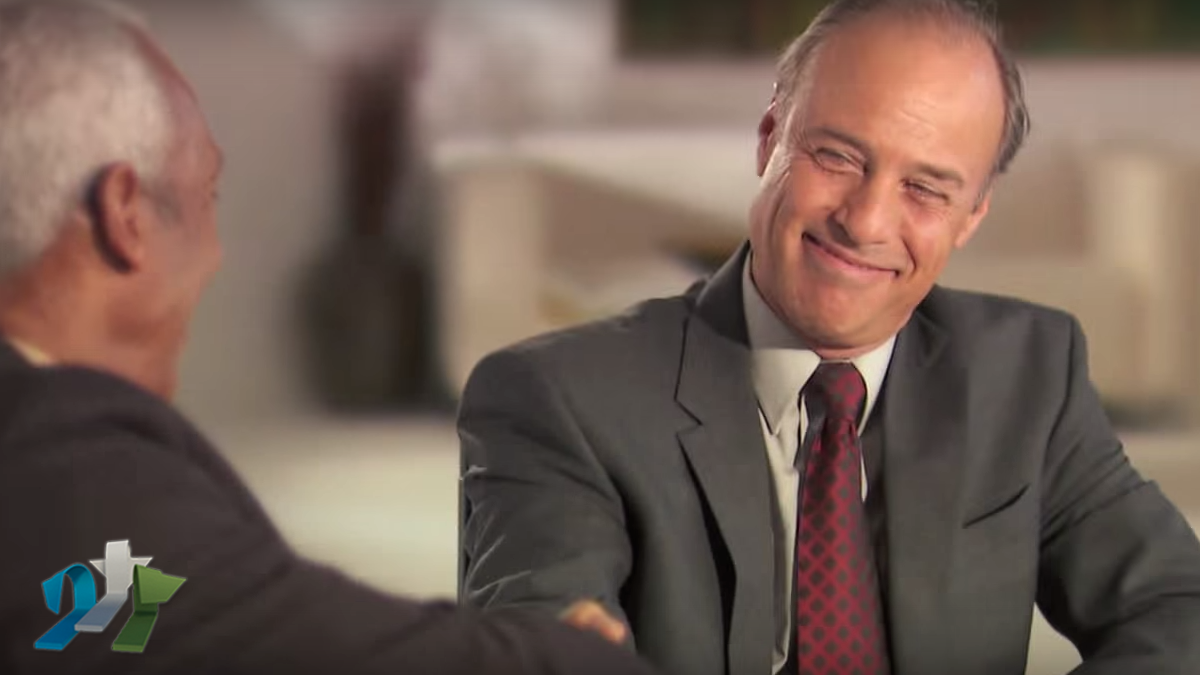
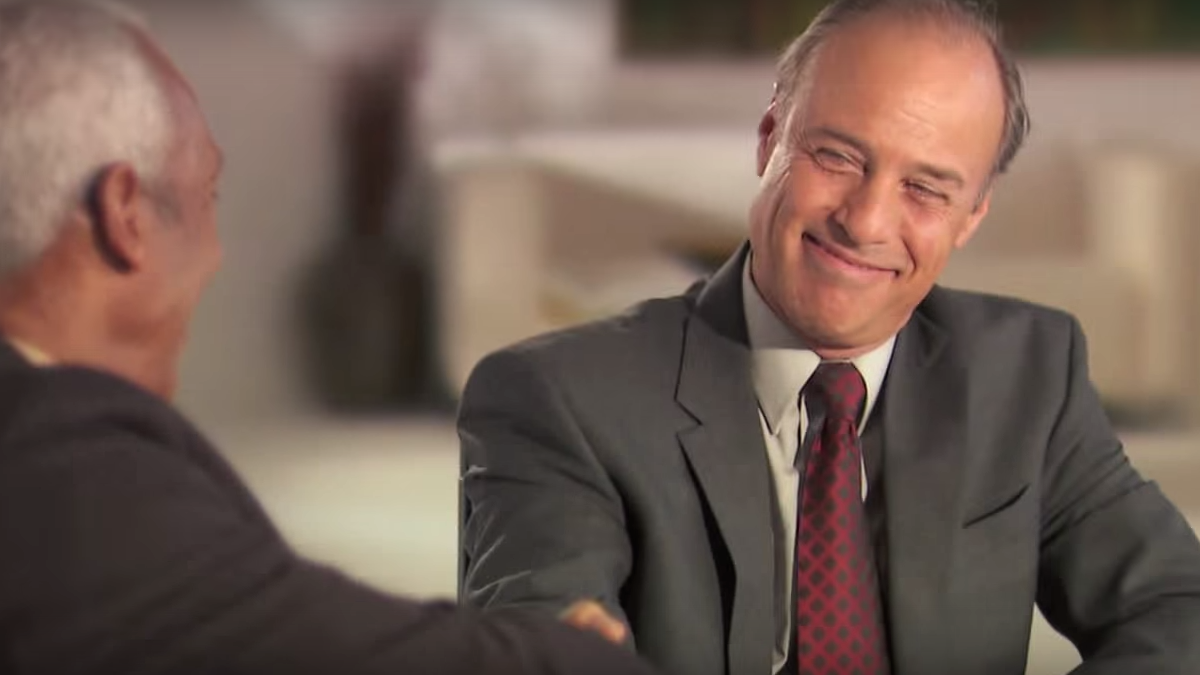
footer update

Changed region(s): [[0.0308, 0.7778, 0.1542, 0.9644]]

diff --git a/eap-meme/js/console-image.js b/eap-meme/js/console-image.js
@@ -99,6 +99,11 @@
 
 		var img = new Image();
     		img.setAttribute('crossOrigin','anonymous');
+		var imageIcon= new Image();
+			imageIcon.src = "img/eap.png";
+			imageIcon.height= 20;
+			imageIcon.width= 20;
+
 		img.onload = function() {
 			canvas.width = width;
 			canvas.height = height;
@@ -117,6 +122,10 @@
 			canvas.id = 'myCanvas';
 			$('.canvas').html(canvas);
 			
+			
+			//ctx.drawImage(imageIcon, 10, _h - 100);
+			ctx.drawImage(imageIcon,30, _h-50, 40, 40);
+
 		};
 
 		if(memes[image]) var url = memes[image];
@@ -125,6 +134,7 @@
 		img.src = url; //"http://www.corsproxy.com/" + url.replace(/https?:\/\//, "");
 	};
 
+ 			
 
 })(console);
 
